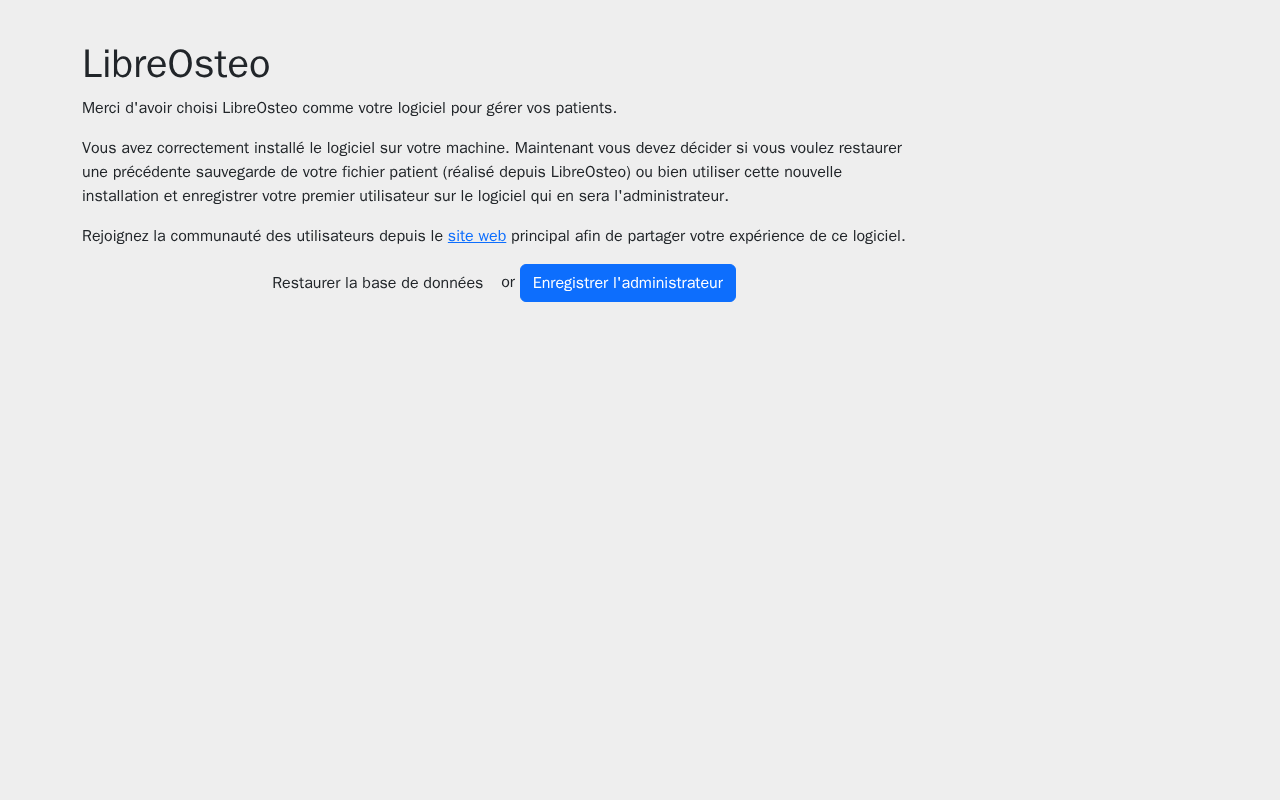
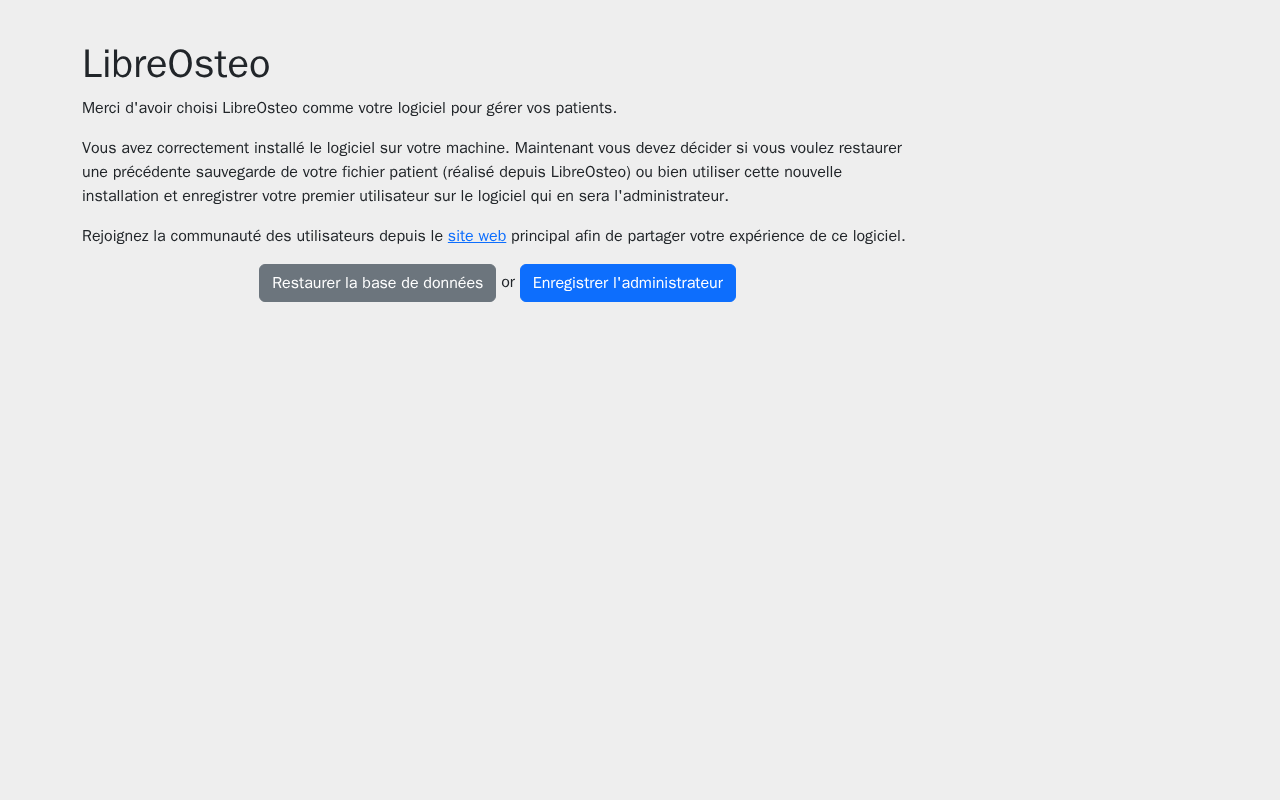
refactor: basculer install.html sur Bootstrap 5 (D6g T8)
install.html, partials/register.html et partials/restore.html, jeton par jeton contre
l'annexe A du plan D6g. Remesure demandee par le dispatch : 8 occurrences avant (5 + 1 + 2 +
0), pas les 9 du brief (5 + 1 + 3 + 0) - l'ecart vient de restore.html, deja a 2 sites et non
3, le brief datant d'avant l'ajout du libelle de D10 T4 (non touche ici). 0 apres.

jumbotron (install.html:24) part sans equivalent, aucune regle ne le porte (comme
page-header a T6) ; center-block -> mx-auto ; panel panel-default -> card (element vide,
masque par .form-wrapper:empty tant qu'aucun hx-get n'a rempli le panneau) ; btn-default ->
btn-secondary (install.html, restore.html) ; btn-block -> w-100 (register.html, meme
renommage que T2) ; form-group -> mb-3 (restore.html, contexte vertical, pas
form-horizontal). well-md, deja tranche par T3 sur register.html et restore.html, non
retouche.

Grep Python (widget.attrs) sur installation.py, administration.py, displays.py : 0 avant et
apres, les trois formulaires de cet ecran ecrivent leurs <input> a la main. Orphelinage
libreosteo.css : delta vide (28 orphelines, avant et apres). Collaterale : le renommage de
center-block laisse .center-block orpheline dans signin.css (2e regle morte de ce fichier
avec .element, deja connue) - non retiree ici, ledeni du menage T16 comme .element.

Garde partagee outils/tests/test_rupture_bs5.py : btn-block etait le dernier des sept
[…]

Changed region(s): [[0.1875, 0.3125, 0.4062, 0.375]]

diff --git a/libreosteoweb/templates/install.html b/libreosteoweb/templates/install.html
@@ -21,15 +21,16 @@
     <div class="container">
         <div class="row">
             <div class="col-md-9">
-                <div class="jumbotron">
+                {# D6g T8 : jumbotron disparait sans equivalent (annexe A), aucune regle ne le porte. #}
+                <div>
                     {% blocktrans %}
                     <h1>LibreOsteo</h1>
                     <p>Thank you to chose LibreOsteo as your software to manage your patients.</p>
                     <p>You successfully installed the software on your machine. Now you have to decide if you want to restore a previous backup of your patient file (performed from LibreOsteo) or use a new installation and register your first user on the softwarewhich will be the administrator of the software</p>
                     <p>Join the user community from the main <a href="https://www.libreosteo.org/" target="_blank">website</a> in order to share your experience with this software.</p>
                     {% endblocktrans %}
-                    <div class="center-block center">
-                        <button id="restore" class="btn btn-default" type="button"
+                    <div class="mx-auto center">
+                        <button id="restore" class="btn btn-secondary" type="button"
                                 hx-get="{% url 'partials-restore' %}"
                                 hx-target="#volet-installeur">{% trans 'Restore database' %}</button>
                         or
@@ -42,7 +43,7 @@
             {# Le volet qui portait `ui-view`. `signin.css` porte #}
             {# `.form-wrapper:empty {display: none}` : il doit donc rester reellement vide #}
             {# avant le premier hx-get, sans quoi un panneau vide s'affiche avec son ombre. #}
-            <div class="col-md-3 td-middle form-wrapper panel panel-default" id="volet-installeur"></div>
+            <div class="col-md-3 td-middle form-wrapper card" id="volet-installeur"></div>
         </div>
     </div> <!-- /container -->
 {% endblock %}

diff --git a/libreosteoweb/templates/partials/restore.html b/libreosteoweb/templates/partials/restore.html
@@ -28,7 +28,7 @@
                               hx-target="#erreur-restauration"
                               hx-indicator="#restauration-en-cours">
                           {% csrf_token %}
-                            <div class="form-group">
+                            <div class="mb-3">
                                 <label for="archive-file">{% trans 'Archive file to restore' %}</label>
                                 {# `name="file"` et non `archiveFile` : c'est le nom que #}
                                 {# `LoadDump.post` lit (`request.FILES["file"]`), et il #}
@@ -44,7 +44,7 @@
                             {# visible en meme temps a l'ecran (htmx charge ce panneau a cote, #}
                             {# sans le remplacer) : viser le mauvais ne doit plus se jouer sur #}
                             {# un seul mot commun (KANBAN, recette 2026-09-12). #}
-                            <button class="btn btn-default" type="submit">{% trans 'Confirm restore' %}</button>
+                            <button class="btn btn-secondary" type="submit">{% trans 'Confirm restore' %}</button>
 
                             {# Le temoin d'attente devient l'indicateur htmx. Il n'y a plus #}
                             {# de pourcentage d'avancement calcule puis jete #}

diff --git a/libreosteoweb/templates/partials/register.html b/libreosteoweb/templates/partials/register.html
@@ -15,5 +15,5 @@
         <input type="password" name="password1" class="form-control form-registration-password1" placeholder="{%  trans "Password" %}" required="required"/>
         <input type="password" name="password2" class="form-control form-registration-password2" placeholder="{%  trans "Confirm password" %}" required="required"/>
         <input type="hidden" name="next" value="{{ next|escape }}" />
-        <button class="btn btn-lg btn-primary btn-block" type="submit" value="login">{% trans "Register" %}</button>
+        <button class="btn btn-lg btn-primary w-100" type="submit" value="login">{% trans "Register" %}</button>
       </form>

diff --git a/outils/tests/test_rupture_bs5.py b/outils/tests/test_rupture_bs5.py
@@ -46,8 +46,9 @@ def test_une_balise_django_dans_l_attribut_class_ne_produit_pas_de_jeton(
 # par famille de l'etape 2 bis -- et ce sont ces quatre-la, les seuls qu'aucun document
 # anterieur ne nomme, qu'une garde a le plus de raisons de tenir.
 AJOUTS_DE_T1 = {
-    # 3 au 2026-09-19 (T1) ; 2 repris par D6g T2 (login.html, create_admin_account.html).
-    "btn-block": ("w-100", 1),
+    # 3 au 2026-09-19 (T1) ; 2 repris par D6g T2 (login.html, create_admin_account.html) ;
+    # le troisieme par D6g T8 (register.html, son dernier site).
+    "btn-block": ("w-100", 0),
     # 2 au 2026-09-19 (T1) ; les deux repris par D6g T3 (register.html, restore.html).
     "well-md": ("card", 0),
     "well-sm": ("card", 0),
@@ -92,11 +93,12 @@ def test_la_mesure_du_depot_pese_les_occurrences_de_ces_sept_jetons() -> None:
     documents de compte ; **8** depuis D6g T3, qui a repris `well-md` (register.html,
     restore.html) et `badge-info` (menu.html) ; **6** depuis D6g T13, qui a repris deux
     des trois sites de `left` (`evenement.html`, `evenements-page.html`) -- le troisieme,
-    hors de son ecran, reste a reprendre ; **5** depuis D6g T7, qui a repris
-    `fa-wrench-o` (reindexation.html, son seul porteur).
+    hors de son ecran, reste a reprendre ; **1** depuis D6g T7, qui a repris
+    `fa-wrench-o` (reindexation.html, son seul porteur) ; **0** depuis D6g T8, qui a
+    repris le dernier site de `btn-block` (register.html).
     """
     jetons, _ = occurrences(RACINE / "libreosteoweb" / "templates")
     releve = {jeton: jetons[jeton] for jeton in AJOUTS_DE_T1}
 
     assert releve == {jeton: n for jeton, (_, n) in AJOUTS_DE_T1.items()}
-    assert sum(releve.values()) == 1
+    assert sum(releve.values()) == 0

diff --git a/docs/recette.md b/docs/recette.md
@@ -4015,11 +4015,31 @@ et `installation-375.png`.
 **Étapes**
 
 1. Ouvrir `/install/` sur une base vierge, fenêtre à **1 280 px de large**.
-   Attendu : <écrit par T8>
-2. Ramener la fenêtre à **375 px de large**.
-   Attendu : <écrit par T8>
+   Attendu : le titre *LibreOsteo* et les trois paragraphes d'accueil sont entièrement
+   visibles, sans recouvrement ; les deux boutons *Restaurer la base de données* et
+   *Enregistrer l'administrateur* sont côte à côte, séparés par « or », et atteignables au
+   clic ; le lien *site web* est visible et cliquable ; aucune barre de défilement
+   horizontale. Le panneau droit (`#volet-installeur`) est vide et n'affiche ni carte ni
+   ombre à l'ouverture (E0) : `signin.css` le masque tant qu'il est vide.
+2. Cliquer *Restaurer la base de données*, puis *Enregistrer l'administrateur* (dans deux
+   ouvertures séparées de `/install/`, pour ne recharger qu'un panneau à la fois).
+   Attendu, toujours à **1 280 px** : le panneau droit affiche une carte avec son titre
+   (« Restaurer la base de données » ou « Enregistrement »), son texte d'explication et son
+   formulaire (champ fichier ou champs de saisie), sans déborder de la carte ni recouvrir le
+   texte de gauche ; les boutons du formulaire (*Confirmer la restauration*,
+   *Enregistrer*) sont pleinement visibles.
+3. Ramener la fenêtre à **375 px de large**, sur `/install/` avec le panneau de
+   restauration ouvert.
+   Attendu : la colonne de texte et le panneau droit s'empilent (celui-ci sous les deux
+   boutons), le titre reste entièrement visible, les deux boutons restent côte à côte sans
+   se chevaucher, et aucune barre de défilement horizontale n'apparaît.
 
-**Ne couvre pas** : <écrit par T8>
+**Ne couvre pas** : le contenu des formulaires d'inscription et de restauration une fois
+soumis (validation, erreurs) — ce sont `tests/functional/test_installation.py` et
+`test_sauvegarde.py` qui les couvrent au niveau du geste. Les captures de référence
+(`installation-1280.png`, `installation-375.png`) ne montrent que l'état E0, panneau droit
+vide : les panneaux ouverts des étapes 2 et 3 ci-dessus s'observent au navigateur, sans
+capture versée, `capture_socle_visuel.py` ne les prenant pas.
 
 ### R-VIS-08 — Socle visuel : nouveau patient
 
